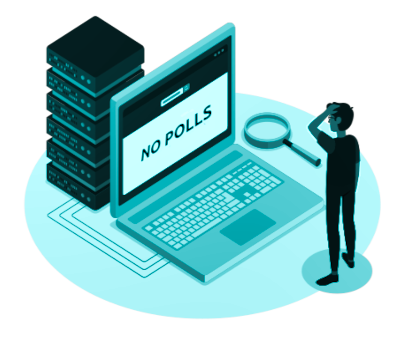
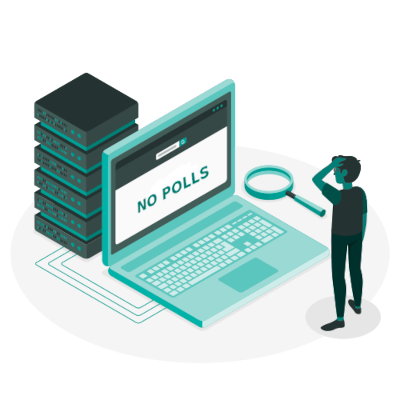
more validations and 404 page added

diff --git a/percentpoll/src/Components/Vote/Vote.js b/percentpoll/src/Components/Vote/Vote.js
@@ -1,16 +1,24 @@
 import React, { useState,useEffect } from 'react'
-import { Button, ListGroup, ListGroupItem } from 'react-bootstrap'
-import "bootstrap/dist/css/bootstrap.min.css";
+import { Button, ListGroup,Alert, ListGroupItem,Form } from 'react-bootstrap'
+import axios from 'axios';
 
 import './Vote.css'
 import NavBar from '../Navbar/Navbar';
 import { useParams ,useNavigate} from 'react-router-dom';
+import loadingIcon from '../images/loading.png'
+import LogIn from '../LogIn/LogIn';
+import Register from '../Register/Register';
 
 function Vote() {
-    const pollId =useParams()
+    const poll_id =useParams()
     const [title,setTitle] = useState()
     const [pollOptionsArr,setPollOptionsArr]= useState([])
     const navigate = useNavigate()
+    const [validated, setValidated] = useState(false);
+    const [submit,setSubmit] = useState(false)
+    const [userId,setUserId] = useState()
+    const [selectAlert,setSelectAlert] = useState(false)
+    const [userAlert,setUserAlert] = useState(false)
     const [url,setUrl] = useState(()=>{
     
         if(process.env.NODE_ENV==='production'){
@@ -18,46 +26,61 @@ function Vote() {
         } else if(process.env.NODE_ENV==='development')
           return "http://localhost:5000"
       } )
-
+    const hostId = localStorage.getItem('user_id')
+    const isLoggedIn = localStorage.getItem('isLoggedIn')
+    const [showLogin ,setShowlogIn] = useState(hostId===null?true:false)
+    const[showRegister,setShowRegister]= useState(false)
+    const api = axios.create({
+        baseURL: url
+      })
     
-    // ["surabi" ,"churabi","chundari","chakkara"]
     var selectOptionId=[]
     var selectedOption = ""
-    console.log('url',pollId)
+    console.log('url',poll_id)
     console.log(title,pollOptionsArr)
+
     const handleSubmit = async() =>{
-        const voteData ={"selected_option" : selectedOption}
-        let res = await fetch(url+'/vote/'+pollId.pollId,{
-            method : ['POST'],
-            headers :{
-                'Content-Type': 'application/json',
-                "Accept":"application/json"
-            },
-            body: JSON.stringify(voteData)
-        });
-        if(res.status === 200){
-            let message = await res.json()
-            console.log("voting successful!!",message['message']);
+        setSubmit(true)
+        await api.post('/vote/'+poll_id.pollId,{"selected_option" : selectedOption})
+        .then(function (response) {
+          console.log(response);
+          if(response.status === 200){
+            console.log(response.data.message);
             navigate('/')
           }
              
-          else if(res.status === 201){
-            console.log(res.json())
+          else if(response.status === 201){
+            console.log(response.json())
             console.log("voting unsuccessful!!");
           }
+        })
+        .catch(function (error) {
+          console.log(error);
+        });
     }
 
-    console.log(pollId.pollId)
-    useEffect(() => {
-        fetch(url+'/vote/'+pollId.pollId)
-        .then(response => response.json())
-        .then(data => {
-            console.log(data,typeof(data),data['pollOptions'])
-            setPollOptionsArr([...data['pollOptions']])
-            setTitle(data['title'])});
+    console.log(poll_id.pollId)
+    useEffect(()=>{
+        api.get('/vote/'+poll_id.pollId)
+        .then(function (response) {
+            console.log(response);
+            let data = response.data
+            setPollOptionsArr([...data.pollOptions])
+            setTitle(data.title)
+            setUserId(data.user_id)
+        })
+        .catch(function (error) {
+            console.log(error);
+        })
+             
     }, [])
-    //  console.log(data,typeof(data),data['pollOptions'])
-    
+    const handleLoginModalOpen = ()=>{
+        setShowlogIn(!showLogin)
+    }
+
+    const  handleRegisterModalOpen =() =>{
+        setShowRegister(!showRegister)
+      }
     
     const handleClickOption = (e) =>{
         selectedOption = e.target.textContent
@@ -74,23 +97,63 @@ function Vote() {
             property.style.backgroundColor = "#035439fe"
         }
     }
+    console.log(hostId,String(userId))
+    const handleValidate = (event) =>{
+        if (isLoggedIn==='true')
+            {if (hostId === String(userId)) {
+          event.preventDefault();
+          event.stopPropagation();
+          setUserAlert(true)
+            }
+            else if (selectedOption === "") {
+                event.preventDefault();
+                event.stopPropagation();
+                setSelectAlert(true)
 
-
-    /*<ListGroup>
-                    {pollOptionsArr.map((option,index)=>(
-                        <ListGroupItem id= {index} key={index}className=' btn my-2' onClick={(e)=>handleClickOption(e)} >
-                        <h5>{option}</h5>
-                        </ListGroupItem>
-                    ))
-                    } 
-                </ListGroup> */
-    
+            }
+            else{
+            event.preventDefault();
+            event.stopPropagation();
+            handleSubmit()
+            }}
+        else{
+            event.preventDefault();
+            event.stopPropagation();
+            setShowlogIn(true)
+        }
+        setValidated(true);
+      }
   return (
         <div id='vote'>
+            {showLogin && <LogIn show={showLogin} handleModalOpen={handleLoginModalOpen} handleRegisterModalOpen ={handleRegisterModalOpen}/>}
+      {showRegister&&<Register show={showRegister} handleModalOpen={handleRegisterModalOpen} handleLoginModalOpen ={handleLoginModalOpen}/>}
         <NavBar/>
+        <Form noValidate validated={validated} onSubmit={handleValidate}>
+        
         <div className='container' id="cont">
             <h2>{title} </h2>
                 <hr/>
+                <div className="row">
+                    <div className="col">
+
+                    <Alert
+                    variant="danger"
+                    show={userAlert}
+                    onClose={() => setUserAlert(false)}
+                    dismissible
+                ><h6>Host can not participate in a poll!</h6></Alert>
+                    </div>
+                    <div className="col-auto">
+                    {userAlert &&
+                <Button size='lg' onClick={()=>navigate('/')}>Go Home</Button>}
+                    </div>
+                </div>
+                <Alert
+                    variant="danger"
+                    show={selectAlert}
+                    onClose={() => setSelectAlert(false)}
+                    dismissible
+                ><h6>Please select anyone from the given options!</h6></Alert>
                 <h6>You can SELECT ANY ONE of options listed below and click on SUBMIT button for being part of this poll.</h6>
                 <ListGroup>
                     {pollOptionsArr.map((option,index)=>(
@@ -105,11 +168,21 @@ function Vote() {
             <Button
                 type="submit"
                 variant="success"
-                className="btn-lg"
-                onClick={handleSubmit}>
+                className="btn-lg">
+                    {
+              submit &&
+              <img
+              alt="loading"
+              src={loadingIcon}
+              id="loadingIcon"
+              className="d-inline-block"
+            />
+            }
                 Submit
             </Button>
         </div>
+        </Form>
+        
         </div>
         
   )

diff --git a/percentpoll/src/Components/PageNotFound/PageNotFound.js b/percentpoll/src/Components/PageNotFound/PageNotFound.js
@@ -1,0 +1,29 @@
+import React from 'react'
+import { Button, Image } from 'react-bootstrap'
+import { useNavigate} from 'react-router-dom';
+
+import NavBar from '../Navbar/Navbar'
+import './PageNotFound.css'
+import notFound from '../images/404.png'
+
+function PageNotFound() {
+  const navigate = useNavigate()
+
+  return (
+    <div id="pageNotFound" >
+        <NavBar/>
+        <div className="d-flex-center text-center pt-4">
+        <Image
+        className="noPolls"
+        src={notFound}/>
+        <span>Page Not Found</span>
+        <Button size='lg' onClick={()=>navigate('/')} >
+          Go Home
+        </Button>
+        
+        </div>  
+    </div>
+  )
+}
+
+export default PageNotFound

diff --git a/percentpoll/src/Components/PageNotFound/PageNotFound.css b/percentpoll/src/Components/PageNotFound/PageNotFound.css
@@ -1,0 +1,28 @@
+#pageNotFound{
+    min-height: 92vh;
+
+}
+#pageNotFound > div>span{
+    font-family: 'Comfortaa', cursive;
+    color: white;
+    font-size: 2.5em;
+    display: block;
+    position: absolute;
+    top: 70%;
+    text-shadow: 0 0 20px #000;
+    width: 100%;
+}
+#pageNotFound > div>img{
+    padding-block-end: 10%;
+}
+#pageNotFound > div>button{
+    font-family: 'Comfortaa', cursive;
+    color: white;
+    display: block;
+    top: 80%;
+    position: absolute;
+    text-shadow: 0 0 20px #000; 
+    min-width: 40%;
+    
+    margin-inline: 30vw;
+}

diff --git a/percentpoll/src/index.js b/percentpoll/src/index.js
@@ -8,6 +8,7 @@ import {
 import './index.css';
 import App from './App';
 import Vote from './Components/Vote/Vote';
+import PageNotFound from './Components/PageNotFound/PageNotFound';
 
 const root = ReactDOM.createRoot(document.getElementById('root'));
 
@@ -17,6 +18,7 @@ root.render(
       <Routes>
         <Route exact path="/" element={<App />} />
         <Route path="/vote/:pollId" element={<Vote/>} />
+        <Route path="*" element={<PageNotFound/>} />
       </Routes>
     </BrowserRouter>
     <div className='footer'>

diff --git a/percentpoll/src/Components/LogIn/LogIn.css b/percentpoll/src/Components/LogIn/LogIn.css
@@ -1,12 +1,8 @@
 .alert{
     width: 100%;
     font-size: medium;
-    padding-top: 2%;
     max-height: 3rem;
     border-width: 0.1rem;
-}
-.alert-dismissible .btn-close{
-    padding-block: 3%;
 }
 #btnRegister{
     padding-left: 0%;

diff --git a/percentpoll/src/App.js b/percentpoll/src/App.js
@@ -62,7 +62,7 @@ function App() {
     });
   }
 
-  setTimeout(()=> setGetApi(!getApi),5000)
+  setTimeout(()=> setGetApi(!getApi),60000)
 
   useEffect(() => {
     console.log(userId)

diff --git a/percentpoll/src/Components/Vote/Vote.css b/percentpoll/src/Components/Vote/Vote.css
@@ -7,7 +7,7 @@
 }
 
 #vote{
-    min-height: 90vh;
+    min-height: 100vh;
 }
 .list-group{
     min-width: 100%;

diff --git a/percentpoll/src/Components/Register/Register.css b/percentpoll/src/Components/Register/Register.css
@@ -14,5 +14,3 @@
 .btn-link:hover{
     color: #191b7e;
 }
-.modal-fullscreen .modal-content{
-}

diff --git a/server/app.py b/server/app.py
@@ -171,6 +171,9 @@ def vote(pollId):
     print('pollId',pollId)
     if (request.method == 'GET'):
         voteData = {}
+        getUserIdQuery='''SELECT user_id FROM live_polls_info WHERE poll_id = %s'''
+        cur.execute(getUserIdQuery,(pollId,))
+        userId = cur.fetchone()[0]
         getTitleQuery='''SELECT title FROM live_polls_info WHERE poll_id = %s'''
         cur.execute(getTitleQuery,(pollId,))
         title = cur.fetchone()[0]
@@ -178,6 +181,7 @@ def vote(pollId):
         cur.execute(getPollOptionsQuery,(pollId,))
         pollOptions = cur.fetchone()[0]
         print(pollOptions)
+        voteData['user_id'] =userId
         voteData['title'] = title
         voteData['pollOptions'] = json.loads(pollOptions)
         #print('voteData',voteData)
